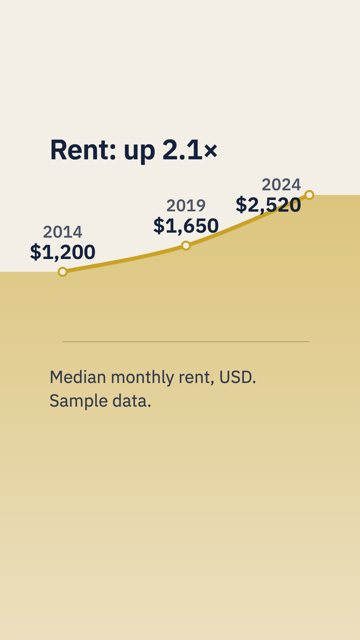
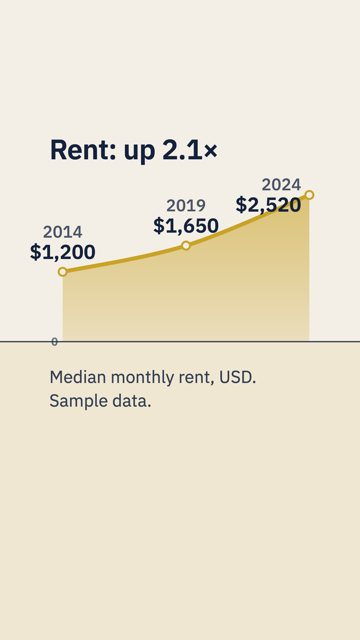
Chart fill: area stays within the data and above the baseline; a ground fills below

diff --git a/kits/storyboard/text_motion.html b/kits/storyboard/text_motion.html
@@ -185,7 +185,8 @@ body:not(.landscape) .dgt{font-size:92px} body:not(.landscape) .dgnode{font-size
 .v-band{left:0;right:0;bottom:0;height:34%;background:var(--accent)}
 .v-word{left:-20px;bottom:-60px;font:800 420px/.85 var(--head);letter-spacing:-.04em;color:var(--accent);white-space:nowrap}
 .wire .vis > *{background:#dcdcdc!important;color:#dcdcdc!important;-webkit-text-stroke:0!important;opacity:1!important} .wire .vis{outline:6px dashed #c33;outline-offset:-6px}
-.chart .area{stroke:none}
+.chart .area{stroke:none} .chart .ground{fill:var(--accent);opacity:.1} .chart .zlab{font:600 34px var(--body);fill:currentColor;opacity:.6}
+.chart:has(.ground) .axis{opacity:.8;stroke-width:4}   /* with a fill the baseline (0 when zero:true) must stay readable over the colour */
 /* portrait stacked diagram: the text layer uses the whole height of the safe zone (y 15–65 %), boxes spread evenly, never piled at the top */
 body:not(.landscape) .dg .dghead{bottom:35%;display:flex;flex-direction:column} .dg .dghead > *{flex-shrink:0}   /* the title keeps its size; only the gaps between boxes give way */
 body:not(.landscape) .dg .dgstack{flex:1;justify-content:space-evenly;gap:32px;margin-top:24px} body:not(.landscape) .dg:has(.dgstack) .dgt{font-size:84px}   /* gap = the floor: a long title must never squeeze the boxes into each other */
@@ -449,11 +450,16 @@ const LAYOUT = {
     for (let i = 0; i < P.length - 1; i++) { const p0 = P[i - 1] || P[i], p1 = P[i], p2 = P[i + 1], p3 = P[i + 2] || p2;
       d += ` C${p1[0] + (p2[0] - p0[0]) / 6},${p1[1] + (p2[1] - p0[1]) / 6} ${p2[0] - (p3[0] - p1[0]) / 6},${p2[1] - (p3[1] - p1[1]) / 6} ${p2[0]},${p2[1]}`; }
     const NS = 'http://www.w3.org/2000/svg', svg = document.createElementNS(NS, 'svg'); svg.setAttribute('viewBox', '0 0 820 520'); svg.setAttribute('class', 'chart');
-    const base = document.createElementNS(NS, 'path'); base.setAttribute('d', `M${X0},${Y0} H${X1}`); base.setAttribute('class', 'axis'); svg.appendChild(base);
-    let area = null;   /* fill:true → the area under the curve bleeds to the frame edges and the bottom (visual layer: no text in it) */
-    if (b.fill) { area = document.createElementNS(NS, 'path'); const Pn = P[P.length - 1]; area.setAttribute('d', `M-600,${P[0][1]} L${P[0][0]},${P[0][1]} ` + d.replace(/^M[^ ]+/, '') + ` L1500,${Pn[1]} L1500,3000 L-600,3000 Z`); area.setAttribute('class', 'area'); area.setAttribute('fill', 'url(#cfade)');
-      const top = Math.min(...P.map(q => q[1]));
-      svg.insertAdjacentHTML('afterbegin', `<defs><linearGradient id="cfade" gradientUnits="userSpaceOnUse" x1="0" y1="${top}" x2="0" y2="${top + 1500}"><stop offset="0" stop-color="var(--accent)" stop-opacity=".55"/><stop offset="1" stop-color="var(--accent)" stop-opacity=".16"/></linearGradient></defs>`); svg.appendChild(area); }   /* fades downward: reads as the area under the curve, not a flat block */
+    let area = null, ground = null;
+    /* fill:true → the area under the curve covers only the data range (first to last point) and stops at the baseline, so it never
+       reads as values before or after the data or below zero; under the baseline a flat, lighter ground fills the frame to the
+       edges and the bottom (visual layer: no data, no text). Review 2026-11-17: the old area ran flat past the last point and through 0. */
+    if (b.fill) { const Pn = P[P.length - 1], top = Math.min(...P.map(q => q[1]));
+      ground = document.createElementNS(NS, 'rect'); ground.setAttribute('x', -600); ground.setAttribute('y', Y0); ground.setAttribute('width', 2100); ground.setAttribute('height', 3000); ground.setAttribute('class', 'ground'); svg.appendChild(ground);
+      area = document.createElementNS(NS, 'path'); area.setAttribute('d', `M${P[0][0]},${Y0} L${P[0][0]},${P[0][1]} ` + d.replace(/^M[^ ]+/, '') + ` L${Pn[0]},${Y0} Z`); area.setAttribute('class', 'area'); area.setAttribute('fill', 'url(#cfade)');
+      svg.insertAdjacentHTML('afterbegin', `<defs><linearGradient id="cfade" gradientUnits="userSpaceOnUse" x1="0" y1="${top}" x2="0" y2="${Y0}"><stop offset="0" stop-color="var(--accent)" stop-opacity=".6"/><stop offset="1" stop-color="var(--accent)" stop-opacity=".22"/></linearGradient></defs>`); svg.appendChild(area); }   /* fades toward the baseline: reads as the area under the curve */
+    const base = document.createElementNS(NS, 'path'); base.setAttribute('d', `M${b.fill ? -600 : X0},${Y0} H${b.fill ? 1500 : X1}`); base.setAttribute('class', 'axis'); svg.appendChild(base);   // drawn over the fill
+    if (b.zero) svg.insertAdjacentHTML('beforeend', `<text class="zlab" x="${X0 - 14}" y="${Y0 + 12}" text-anchor="end">0</text>`);
     const path = document.createElementNS(NS, 'path'); path.setAttribute('d', d); path.setAttribute('class', 'curve'); svg.appendChild(path);
     const dots = P.map(([x, y]) => { const c = document.createElementNS(NS, 'circle'); c.setAttribute('cx', x); c.setAttribute('cy', y); c.setAttribute('r', 12); c.setAttribute('class', 'dot'); svg.appendChild(c); return c; });
     beat.appendChild(svg);
@@ -464,6 +470,7 @@ const LAYOUT = {
     return { in: (tl, at) => { const e = rise(tl, ls, at); const len = 2000; gsap.set(path, { strokeDasharray: len, strokeDashoffset: len });
       tl.to(path, { strokeDashoffset: 0, duration: b.draw || 2.2, ease: 'power2.inOut' }, e - 0.2);
       if (area) tl.from(area, { autoAlpha: 0, duration: (b.draw || 2.2) * 0.9, ease: 'power1.in' }, e);
+      if (ground) tl.from(ground, { autoAlpha: 0, duration: 0.5 }, at);
       dots.forEach((c, i) => tl.from(c, { attr: { r: 0 }, duration: 0.35, ease: 'back.out(3)' }, e - 0.2 + (b.draw || 2.2) * i / Math.max(1, dots.length - 1)));
       labs.forEach(([p, L], i) => { const s = L.querySelector('span'), o = { v: 0 }, at2 = e - 0.1 + (b.draw || 2.2) * i / Math.max(1, labs.length - 1);
         tl.from(L.firstChild, { autoAlpha: 0, y: 14, duration: 0.4 }, at2).to(o, { v: p.v, duration: 0.9, ease: 'power4.out', onUpdate: () => { s.textContent = (b.prefix || '') + o.v.toLocaleString('en-US', { maximumFractionDigits: b.decimals || 0, minimumFractionDigits: b.decimals || 0 }); } }, at2); });

diff --git a/kits/storyboard/gallery/index.html b/kits/storyboard/gallery/index.html
@@ -147,7 +147,7 @@ code,pre{background:var(--code);border-radius:4px} code{padding:0 4px} pre{paddi
 }</pre></details></div></section><section class="lay" id="chart"><div class="shots"><figure><img src="img/chart.jpg" alt="折線圖 成品"><figcaption>成品</figcaption></figure><figure><img src="img/chart_wire.jpg" alt="折線圖 線框"><figcaption>線框：淺藍塊＝字層元素，灰＝畫面層，藍框＝字區，紅虛線＝安全區</figcaption></figure></div>
 <div class="spec"><h2><code>chart</code> 折線圖</h2><p class="meta">數字群組｜角色：證據｜1080×1920</p><p>長期數字、成長曲線（SB-T10）；標題寫結論</p>
 <dl><dt>字級</dt><dd>標題 84px、標籤 60px</dd><dt>動態</dt><dd>先軸、後曲線 2.2 秒、點與標籤依序出現、數字跳動</dd><dt>畫面層</dt><dd>fill:true 時自帶；否則必填</dd></dl>
-<div class="wrap"><table><tr><th>欄位</th><th>型別</th><th></th><th>上限</th><th>說明</th></tr><tr><td><code>title</code></td><td>字串陣列</td><td>必填</td><td>結論一句，≤1 行、每行 ≤18 字元</td><td></td></tr><tr><td><code>points</code></td><td>物件陣列 {t, v, label, side}</td><td>必填</td><td>3 點：起點、終點、一個轉折</td><td></td></tr><tr><td><code>note</code></td><td>字串</td><td></td><td>≤60 字元</td><td>單位與出處，≤8 個英文字；標題＋標籤＋註記合計 ≤17 字才讀得完 7 秒</td></tr><tr><td><code>zero</code></td><td>布林</td><td></td><td></td><td>數值軸從 0 開始；長條一定要，折線不從 0 時 note 寫明</td></tr><tr><td><code>fill</code></td><td>布林</td><td></td><td></td><td>曲線下面積延伸到畫面邊緣與底部（畫面層）</td></tr><tr><td><code>prefix</code></td><td>字串</td><td></td><td></td><td></td></tr><tr><td><code>decimals</code></td><td>整數</td><td></td><td></td><td></td></tr><tr><td><code>draw</code></td><td>秒</td><td></td><td></td><td></td></tr></table></div>
+<div class="wrap"><table><tr><th>欄位</th><th>型別</th><th></th><th>上限</th><th>說明</th></tr><tr><td><code>title</code></td><td>字串陣列</td><td>必填</td><td>結論一句，≤1 行、每行 ≤18 字元</td><td></td></tr><tr><td><code>points</code></td><td>物件陣列 {t, v, label, side}</td><td>必填</td><td>3 點：起點、終點、一個轉折</td><td></td></tr><tr><td><code>note</code></td><td>字串</td><td></td><td>≤60 字元</td><td>單位與出處，≤8 個英文字；標題＋標籤＋註記合計 ≤17 字才讀得完 7 秒</td></tr><tr><td><code>zero</code></td><td>布林</td><td></td><td></td><td>數值軸從 0 開始；長條一定要，折線不從 0 時 note 寫明</td></tr><tr><td><code>fill</code></td><td>布林</td><td></td><td></td><td>曲線下面積只畫資料範圍（第一點到最後一點），停在基線；基線下方以淺色地面鋪滿到畫面邊緣與底部（畫面層）；zero:true 時基線就是 0，標 0</td></tr><tr><td><code>prefix</code></td><td>字串</td><td></td><td></td><td></td></tr><tr><td><code>decimals</code></td><td>整數</td><td></td><td></td><td></td></tr><tr><td><code>draw</code></td><td>秒</td><td></td><td></td><td></td></tr></table></div>
 <details><summary>範例 JSON（直接貼進 card.json 的 beats）</summary><pre>{
  &quot;layout&quot;: &quot;chart&quot;,
  &quot;seconds&quot;: 7.0,

diff --git a/kits/storyboard/build_layouts.py b/kits/storyboard/build_layouts.py
@@ -52,7 +52,7 @@ LAYOUTS = [
       字級="236px", 動態="亂碼 → 定格＋掃光＋輕震", 畫面層="必填",
       範例={"layout": "reveal", "seconds": 3.0, "big": "140%", "text": ["of what?"], "visual": {"type": "grid"}}),
  dict(id="chart", 名稱="折線圖", 群組="數字", 角色=["證據"], 用途="長期數字、成長曲線（SB-T10）；標題寫結論", 字區={"x": [11.1, 88.9], "y": [20.8, 65.0]},
-      欄位=[F("title", "字串陣列", True, "結論一句，≤1 行、每行 ≤18 字元"), F("points", "物件陣列 {t, v, label, side}", True, "3 點：起點、終點、一個轉折"), F("note", "字串", max="≤60 字元", note="單位與出處，≤8 個英文字；標題＋標籤＋註記合計 ≤17 字才讀得完 7 秒"), F("zero", "布林", note="數值軸從 0 開始；長條一定要，折線不從 0 時 note 寫明"), F("fill", "布林", note="曲線下面積延伸到畫面邊緣與底部（畫面層）"), F("prefix", "字串"), F("decimals", "整數"), F("draw", "秒")],
+      欄位=[F("title", "字串陣列", True, "結論一句，≤1 行、每行 ≤18 字元"), F("points", "物件陣列 {t, v, label, side}", True, "3 點：起點、終點、一個轉折"), F("note", "字串", max="≤60 字元", note="單位與出處，≤8 個英文字；標題＋標籤＋註記合計 ≤17 字才讀得完 7 秒"), F("zero", "布林", note="數值軸從 0 開始；長條一定要，折線不從 0 時 note 寫明"), F("fill", "布林", note="曲線下面積只畫資料範圍（第一點到最後一點），停在基線；基線下方以淺色地面鋪滿到畫面邊緣與底部（畫面層）；zero:true 時基線就是 0，標 0"), F("prefix", "字串"), F("decimals", "整數"), F("draw", "秒")],
       字級="標題 84px、標籤 60px", 動態="先軸、後曲線 2.2 秒、點與標籤依序出現、數字跳動", 畫面層="fill:true 時自帶；否則必填",
       範例={"layout": "chart", "seconds": 7.0, "title": ["Rent: up 2.1×"], "points": [{"t": 2014, "v": 1200, "label": "2014", "side": "above"}, {"t": 2019, "v": 1650, "label": "2019", "side": "above"}, {"t": 2024, "v": 2520, "label": "2024", "side": "left"}], "prefix": "$", "note": "Median monthly rent, USD. Sample data.", "zero": True, "fill": True}),
  dict(id="table", 名稱="三欄比較頁", 群組="數字", 角色=["證據"], 用途="三個方案或期限並排（SB-C3）；輪播頁", 字區={"x": [6.7, 93.3], "y": [7.1, 89.0]}, 版面="1080×1350",

diff --git a/data/changelog.md b/data/changelog.md
@@ -79,3 +79,4 @@
 - 2026-11-16 版面兩層與版型圖鑑：只有要讀的字守安全區，畫面層（照片、背景、圖表面積、特效）滿版；kit 加 visual 欄位（photo／glow／numeral／bars／grid／band／word）、chart fill／zero、新版型 split／grid／checklist、圖解箭頭字型載入後重量、渲染器自動挑空埠；kits/storyboard/layouts.json 24 個版型（字區、欄位、上限、畫面層、範例）與 gallery/index.html；36 個模板每段改引用版型代號與可替換清單（缺 3 個版型已列出）；換版規則依 230 支範本量測（種類 3、主版型約一半、連用中位 2、字量固定）；pb.py storyboard --emit 出卡片草稿、pb.py card-check 算圖前驗證；video_qa 加版型符合度與畫面層填滿；3.1、G3.7、S0-06 改寫，新增 S3-32
 - 2026-11-17 動態改成設定：分鏡套件加 card.motion／beat.motion（預設 crisp、calm、soft、punchy，可調 speed、stagger、enter、ease、transition）；layouts.json 加「動態設定」；card-check 檢查動態；步驟 3.1、G3.7、新條目 S3-34；不設 motion 與改版前一致（SSIM 0.9997）
 - 2026-11-17 送審可選 agent 兩輪：pb.py review-pack 產生審查包（先 card-check、抽關鍵格拼圖、審查表），外掛附 video-reviewer 代理；審查表 data/review_checklists.json（第一輪觀眾、第二輪製作；分鏡與定格各一套）；步驟 3.1、3.5、G3.1，新條目 S3-35
+- 2026-11-17 圖表 fill 修正（第二輪審查抓到）：曲線下面積只畫資料範圍、停在基線，基線下方改淺色地面鋪滿；zero:true 標 0、基線加粗；圖鑑重出
